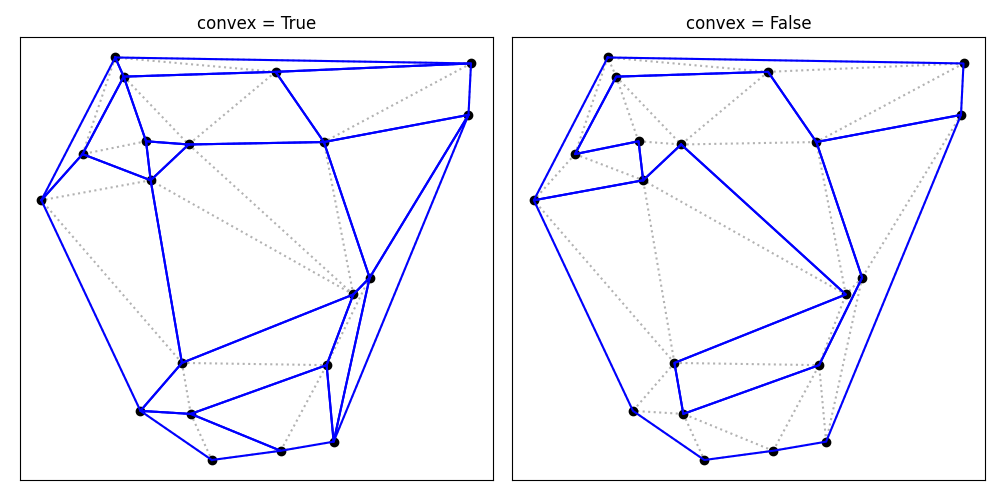
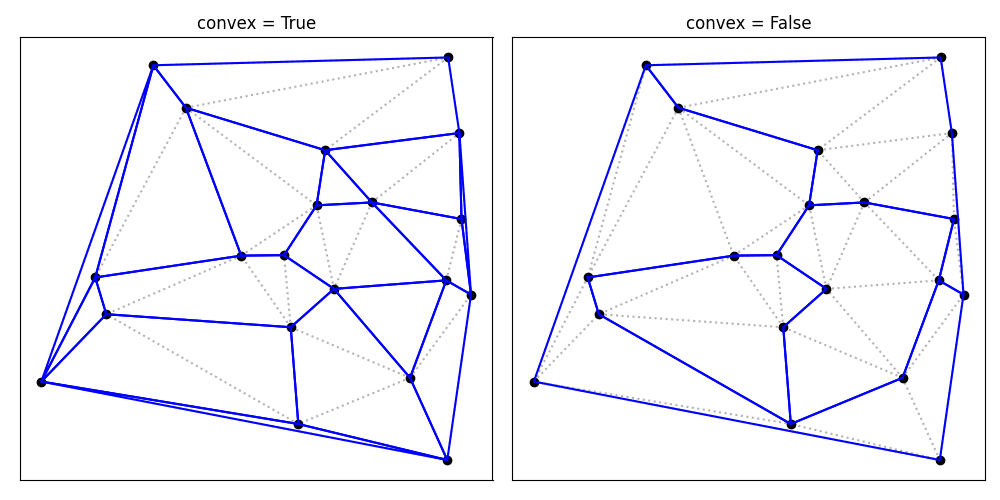
Update docs after building Travis build 24 of rwijtvliet/polygonation
The docs were built from the branch 'main' against the commit
ee2adf0068a5fc5fa2c83043d1db31c2df47ed1b.

The Travis build that generated this commit is at
https://travis-ci.org/rwijtvliet/polygonation/jobs/742012583.

The doctr command that was run is

    /home/travis/virtualenv/python3.7.1/bin/doctr deploy . --built-docs docs/build/html --no-require-master

diff --git a/usage.html b/usage.html
@@ -7,7 +7,7 @@
   
   <meta name="viewport" content="width=device-width, initial-scale=1.0">
   
-  <title>Sample usage &mdash; polygonation 0.1.1.post2+g5ac8621 documentation</title>
+  <title>Sample usage &mdash; polygonation 0.2.0 documentation</title>
   
 
   
@@ -64,7 +64,7 @@
             
             
               <div class="version">
-                0.1.1.post2+g5ac8621
+                0.2.0
               </div>
             
           
@@ -181,25 +181,27 @@ the <code class="docutils literal notranslate"><span class="pre">Polygonate</spa
 
 <span class="gp">In [5]: </span><span class="n">plgn1</span><span class="o">.</span><span class="n">shapes</span>
 <span class="gh">Out[5]: </span><span class="go"></span>
-<span class="go">[[11, 14, 5],</span>
-<span class="go"> [14, 11, 13],</span>
-<span class="go"> [10, 16, 4],</span>
-<span class="go"> [0, 6, 12, 19],</span>
-<span class="go"> [8, 7, 11, 13],</span>
-<span class="go"> [0, 1, 15, 19],</span>
-<span class="go"> [5, 14, 6, 12],</span>
-<span class="go"> [3, 17, 9, 2],</span>
-<span class="go"> [8, 13, 17, 9],</span>
-<span class="go"> [1, 15, 4, 18, 2],</span>
-<span class="go"> [15, 4, 16, 19],</span>
-<span class="go"> [10, 5, 12, 19, 16],</span>
-<span class="go"> [7, 11, 5, 10, 4, 18],</span>
-<span class="go"> [9, 2, 18, 7, 8]]</span>
+<span class="go">[[13, 17, 18],</span>
+<span class="go"> [1, 13, 18],</span>
+<span class="go"> [6, 11, 16],</span>
+<span class="go"> [19, 8, 18],</span>
+<span class="go"> [9, 2, 5],</span>
+<span class="go"> [0, 4, 12],</span>
+<span class="go"> [13, 3, 14, 17],</span>
+<span class="go"> [5, 19, 16, 6],</span>
+<span class="go"> [2, 12, 6, 5],</span>
+<span class="go"> [1, 18, 8, 15],</span>
+<span class="go"> [3, 7, 4, 0, 14],</span>
+<span class="go"> [0, 9, 10, 17, 14],</span>
+<span class="go"> [9, 0, 12, 2],</span>
+<span class="go"> [8, 19, 16, 11, 15],</span>
+<span class="go"> [4, 7, 11, 6, 12],</span>
+<span class="go"> [7, 11, 15, 1, 13, 3]]</span>
 </pre></div>
 </div>
 <p>Using the <code class="docutils literal notranslate"><span class="pre">is_convex</span></code> function to verify that all polygons are indeed convex:</p>
 <div class="highlight-ipython notranslate"><div class="highlight"><pre><span></span><span class="gp">In [6]: </span><span class="nb">print</span><span class="p">([</span><span class="n">pg</span><span class="o">.</span><span class="n">is_convex</span><span class="p">(</span><span class="n">points</span><span class="p">[</span><span class="n">s</span><span class="p">])</span> <span class="k">for</span> <span class="n">s</span> <span class="ow">in</span> <span class="n">plgn1</span><span class="o">.</span><span class="n">shapes</span><span class="p">])</span>
-<span class="go">[True, True, True, True, True, True, True, True, True, True, True, True, True, True]</span>
+<span class="go">[True, True, True, True, True, True, True, True, True, True, True, True, True, True, True, True]</span>
 </pre></div>
 </div>
 <p>If we let go of the convexity criterium, we can find a smaller set of polygons:</p>
@@ -207,9 +209,10 @@ the <code class="docutils literal notranslate"><span class="pre">Polygonate</spa
 
 <span class="gp">In [8]: </span><span class="n">plgn2</span><span class="o">.</span><span class="n">shapes</span>
 <span class="gh">Out[8]: </span><span class="go"></span>
-<span class="go">[[0, 6, 14, 5, 12, 19, 15, 16, 4, 1],</span>
-<span class="go"> [10, 4, 16, 15, 19, 12, 5, 11, 8, 9, 18, 7],</span>
-<span class="go"> [4, 10, 7, 18, 9, 8, 11, 5, 14, 13, 17, 3, 2, 1]]</span>
+<span class="go">[[7, 11, 15, 8, 1, 13, 3],</span>
+<span class="go"> [13, 1, 8, 16, 6, 5, 19, 18, 17, 14, 0, 4, 7, 3],</span>
+<span class="go"> [6, 2, 12, 4, 7, 11, 15, 8, 16],</span>
+<span class="go"> [0, 14, 17, 10, 9, 5, 6, 2, 12, 4]]</span>
 </pre></div>
 </div>
 <p>Here is a comparison of both polygonations:</p>

diff --git a/index.html b/index.html
@@ -7,7 +7,7 @@
   
   <meta name="viewport" content="width=device-width, initial-scale=1.0">
   
-  <title>polygonation Documentation &mdash; polygonation 0.1.1.post2+g5ac8621 documentation</title>
+  <title>polygonation Documentation &mdash; polygonation 0.2.0 documentation</title>
   
 
   
@@ -63,7 +63,7 @@
             
             
               <div class="version">
-                0.1.1.post2+g5ac8621
+                0.2.0
               </div>
             
           

diff --git a/_modules/index.html b/_modules/index.html
@@ -7,7 +7,7 @@
   
   <meta name="viewport" content="width=device-width, initial-scale=1.0">
   
-  <title>Overview: module code &mdash; polygonation 0.1.1.post2+g5ac8621 documentation</title>
+  <title>Overview: module code &mdash; polygonation 0.2.0 documentation</title>
   
 
   
@@ -62,7 +62,7 @@
             
             
               <div class="version">
-                0.1.1.post2+g5ac8621
+                0.2.0
               </div>
             
           

diff --git a/_modules/polygonation/_core.html b/_modules/polygonation/_core.html
@@ -7,7 +7,7 @@
   
   <meta name="viewport" content="width=device-width, initial-scale=1.0">
   
-  <title>polygonation._core &mdash; polygonation 0.1.1.post2+g5ac8621 documentation</title>
+  <title>polygonation._core &mdash; polygonation 0.2.0 documentation</title>
   
 
   
@@ -62,7 +62,7 @@
             
             
               <div class="version">
-                0.1.1.post2+g5ac8621
+                0.2.0
               </div>
             
           

diff --git a/release-history.html b/release-history.html
@@ -7,7 +7,7 @@
   
   <meta name="viewport" content="width=device-width, initial-scale=1.0">
   
-  <title>Release History &mdash; polygonation 0.1.1.post2+g5ac8621 documentation</title>
+  <title>Release History &mdash; polygonation 0.2.0 documentation</title>
   
 
   
@@ -63,7 +63,7 @@
             
             
               <div class="version">
-                0.1.1.post2+g5ac8621
+                0.2.0
               </div>
             
           

diff --git a/api.html b/api.html
@@ -7,7 +7,7 @@
   
   <meta name="viewport" content="width=device-width, initial-scale=1.0">
   
-  <title>Api reference &mdash; polygonation 0.1.1.post2+g5ac8621 documentation</title>
+  <title>Api reference &mdash; polygonation 0.2.0 documentation</title>
   
 
   
@@ -64,7 +64,7 @@
             
             
               <div class="version">
-                0.1.1.post2+g5ac8621
+                0.2.0
               </div>
             
           

diff --git a/installation.html b/installation.html
@@ -7,7 +7,7 @@
   
   <meta name="viewport" content="width=device-width, initial-scale=1.0">
   
-  <title>Installation &mdash; polygonation 0.1.1.post2+g5ac8621 documentation</title>
+  <title>Installation &mdash; polygonation 0.2.0 documentation</title>
   
 
   
@@ -64,7 +64,7 @@
             
             
               <div class="version">
-                0.1.1.post2+g5ac8621
+                0.2.0
               </div>
             
           

diff --git a/search.html b/search.html
@@ -7,7 +7,7 @@
   
   <meta name="viewport" content="width=device-width, initial-scale=1.0">
   
-  <title>Search &mdash; polygonation 0.1.1.post2+g5ac8621 documentation</title>
+  <title>Search &mdash; polygonation 0.2.0 documentation</title>
   
 
   
@@ -64,7 +64,7 @@
             
             
               <div class="version">
-                0.1.1.post2+g5ac8621
+                0.2.0
               </div>
             
           

diff --git a/genindex.html b/genindex.html
@@ -7,7 +7,7 @@
   
   <meta name="viewport" content="width=device-width, initial-scale=1.0">
   
-  <title>Index &mdash; polygonation 0.1.1.post2+g5ac8621 documentation</title>
+  <title>Index &mdash; polygonation 0.2.0 documentation</title>
   
 
   
@@ -62,7 +62,7 @@
             
             
               <div class="version">
-                0.1.1.post2+g5ac8621
+                0.2.0
               </div>
             
           

diff --git a/_static/documentation_options.js b/_static/documentation_options.js
@@ -1,6 +1,6 @@
 var DOCUMENTATION_OPTIONS = {
     URL_ROOT: document.getElementById("documentation_options").getAttribute('data-url_root'),
-    VERSION: '0.1.1.post2+g5ac8621',
+    VERSION: '0.2.0',
     LANGUAGE: 'None',
     COLLAPSE_INDEX: false,
     BUILDER: 'html',
